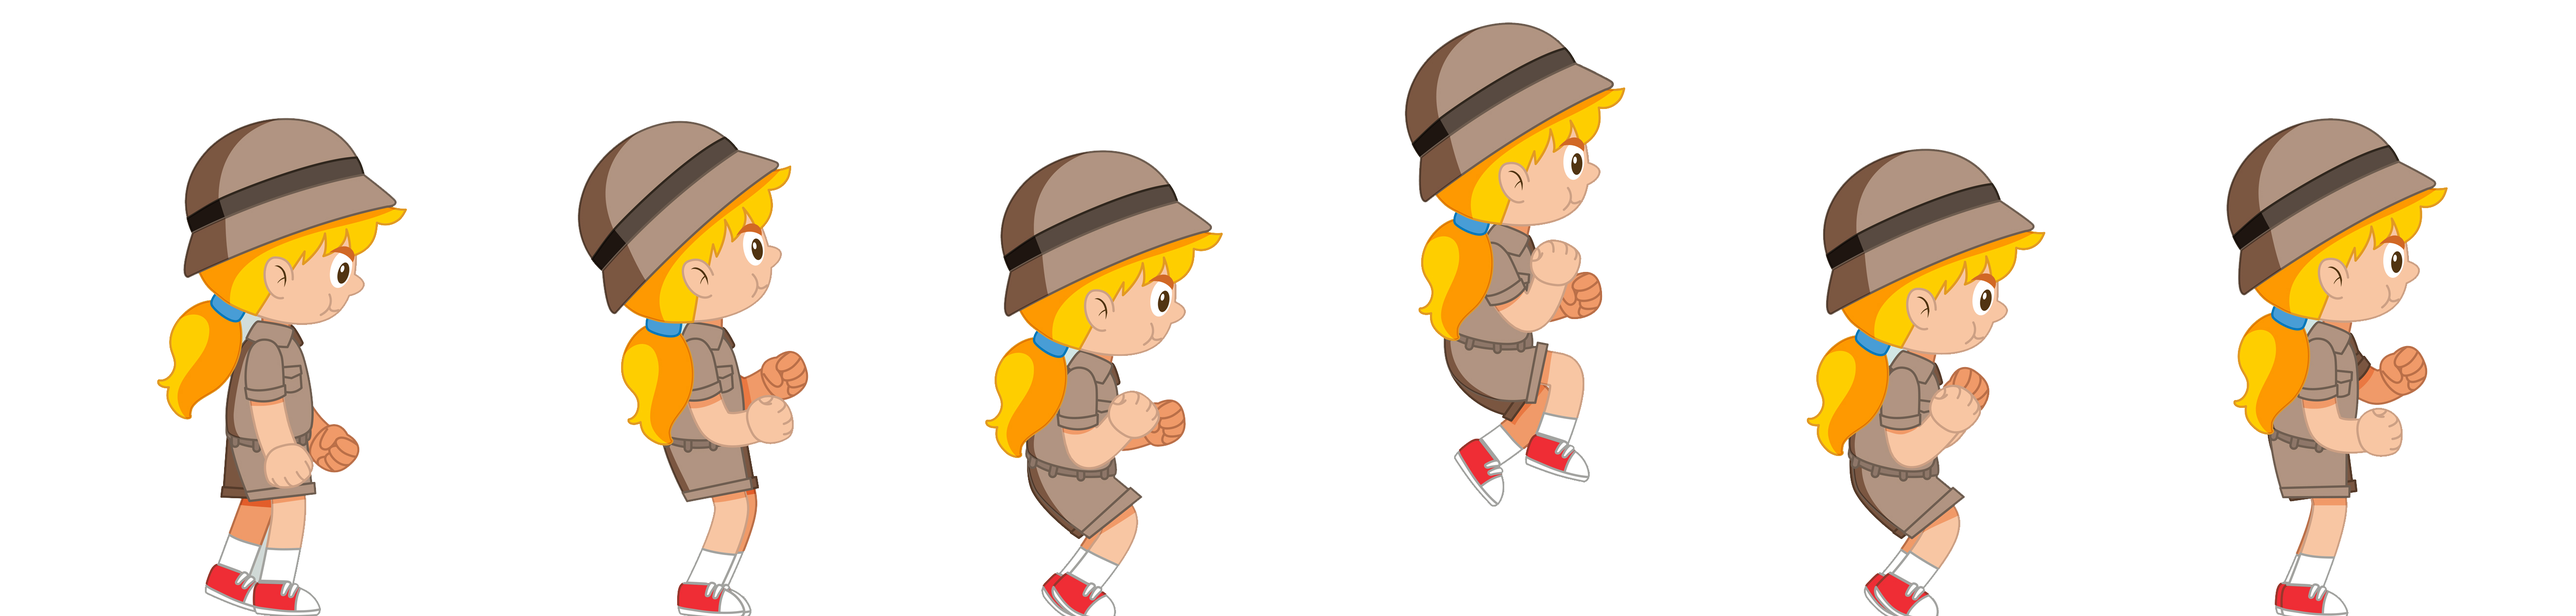
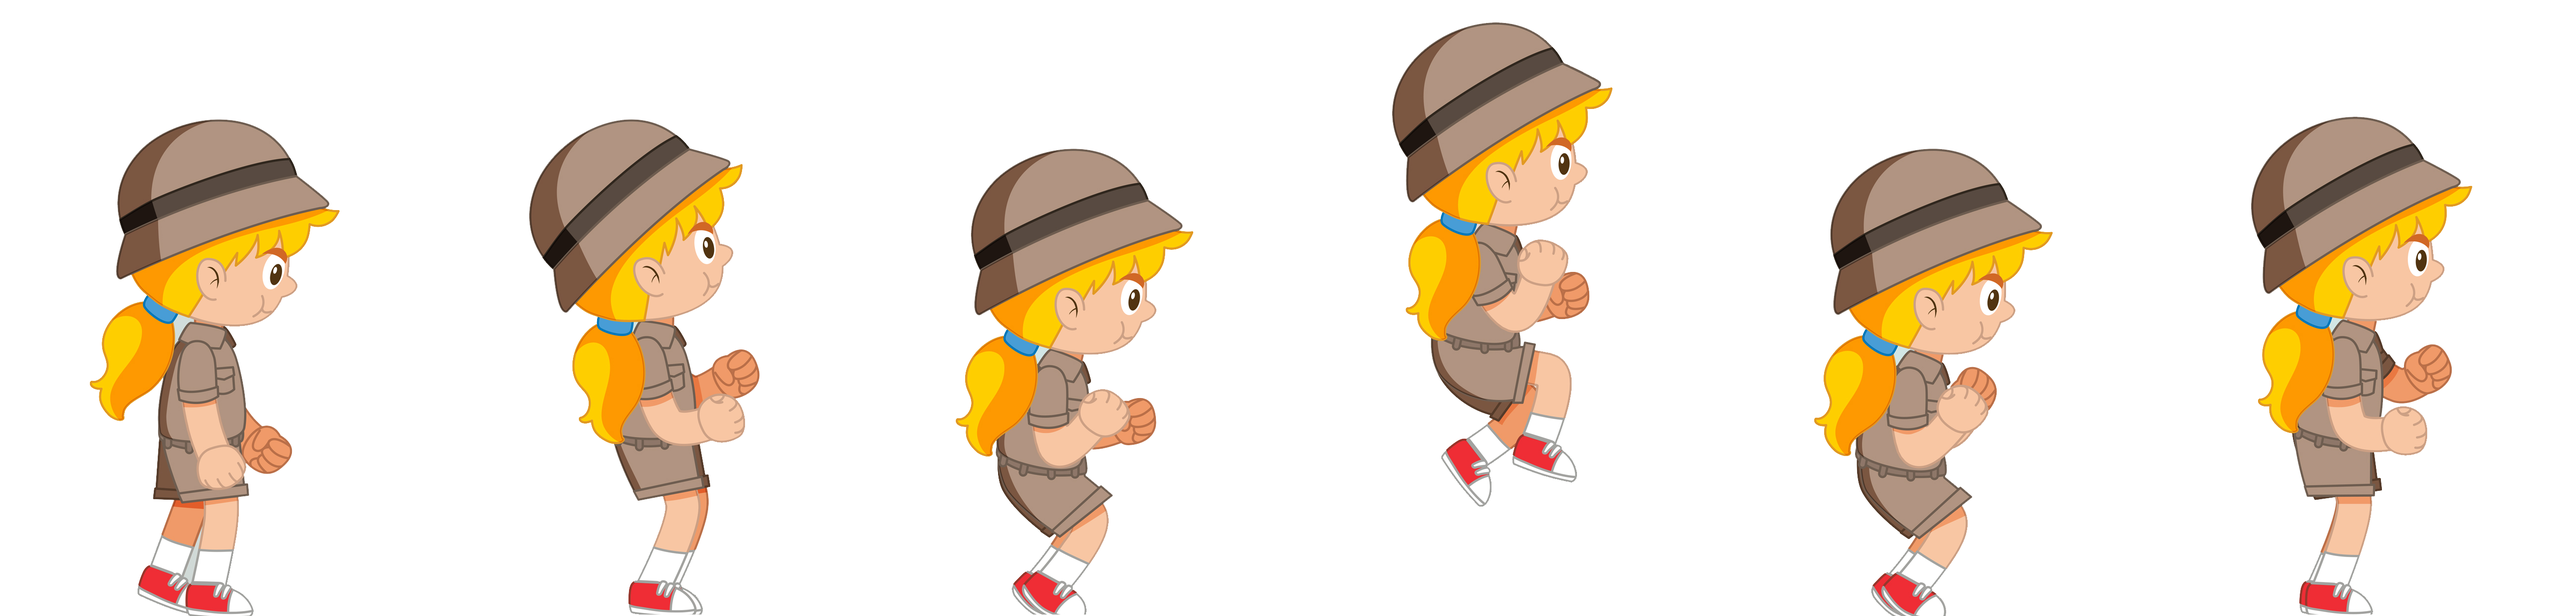
점프 모션 추가

diff --git a/server/game/lib/css/game.css b/server/game/lib/css/game.css
@@ -68,6 +68,7 @@
 .hero_box .hero {height: 100%; background-image: url('../images/data/girl_walking.png'); background-size: 900px 170px; animation: hero_idle 0.6s infinite steps(6);}
 .hero_box .hero.flip {transform: rotateY(180deg);}
 .hero_box .hero.run, .hero_box .hero.run.attack {height: 100%; background-image: url('../images/data/girl_walking.png'); background-size: 900px 170px; animation: hero_run 0.6s infinite steps(6);}
+.hero_box .hero.jump {height: 100%; background-image: url('../images/data/girl_jumping.png'); background-size: 900px 170px; animation: hero_run 1s infinite steps(6);}
 .hero_box .hero.attack {height: 100%; background-image: url('../images/data/Pink_attack.png'); background-size: 768px 128px; animation: hero_attack 0.6s 1 steps(6);}
 .hero_box .hero.crash {background-image: url('../images/data/Pink_Monster_Hurt_4.png'); background-size: 512px 128px; animation: hero_crash 0.4s 1 steps(4);}
 .hero_box .hero.dead {background-image: url('../images/data/Pink_Monster_Death_8.png'); background-size: 1024px 128px; animation: hero_dead 0.8s infinite steps(8); /*transform: rotate(100deg);*/}

diff --git a/server/game/coding/code/js/class.js b/server/game/coding/code/js/class.js
@@ -141,7 +141,10 @@ class Hero {
 			this.slideTime = 0;
 		}
 
-		if(key.keyDown['jump'] && this.jump_flag == 0 && !this.error_jump){this.jump_flag = 1;}
+		if(key.keyDown['jump'] && this.jump_flag == 0 && !this.error_jump){
+			this.jump_flag = 1;
+			this.el.classList.add('jump');
+		}
 		if(this.jump_flag == 1 ){			 // 올라갈때
 			this.movey-= this.jump_speed;
 			this.jumptimer++;
@@ -151,7 +154,9 @@ class Hero {
 			this.movey+= this.jump_speed;
 			this.jumptimer--;
 			if(this.jumptimer < 1){
-				{this.jump_flag = 0;}
+				{this.jump_flag = 0;
+				this.el.classList.remove('jump');
+				}
 			}
 		}
 
